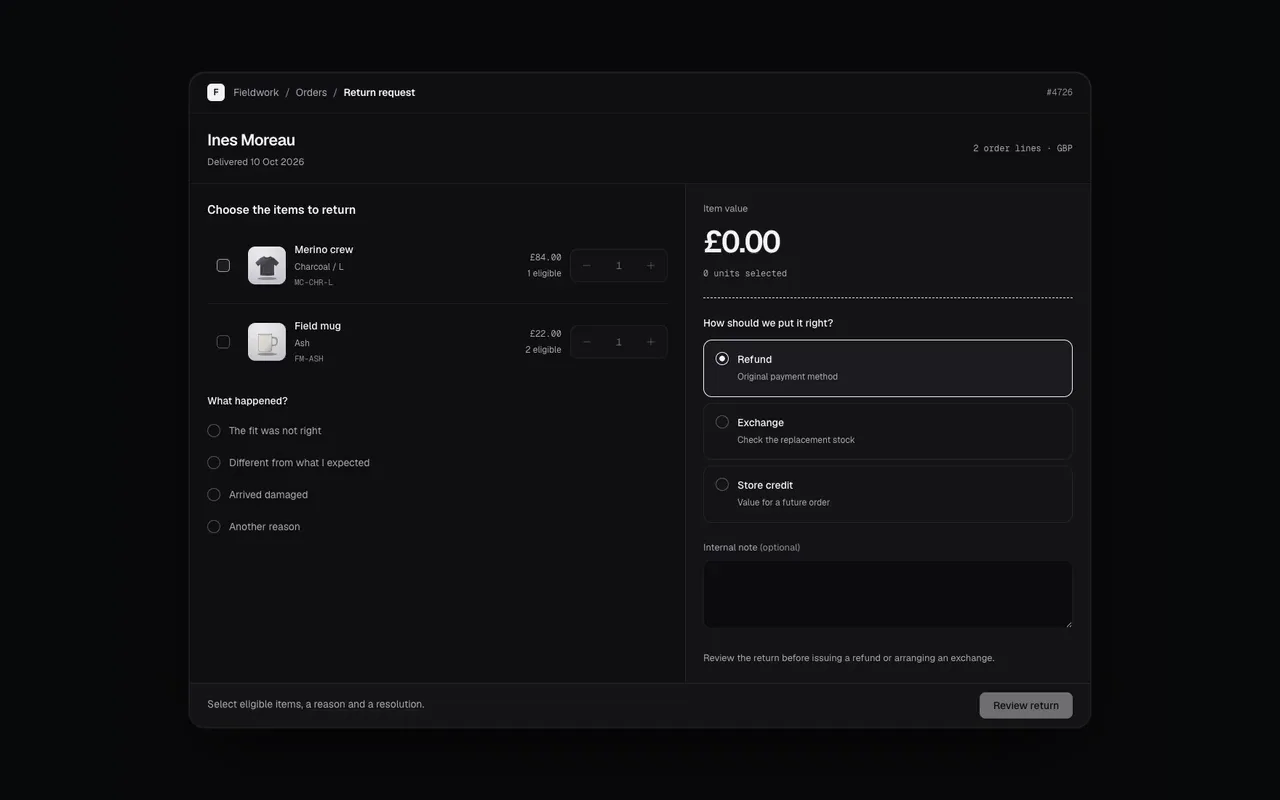
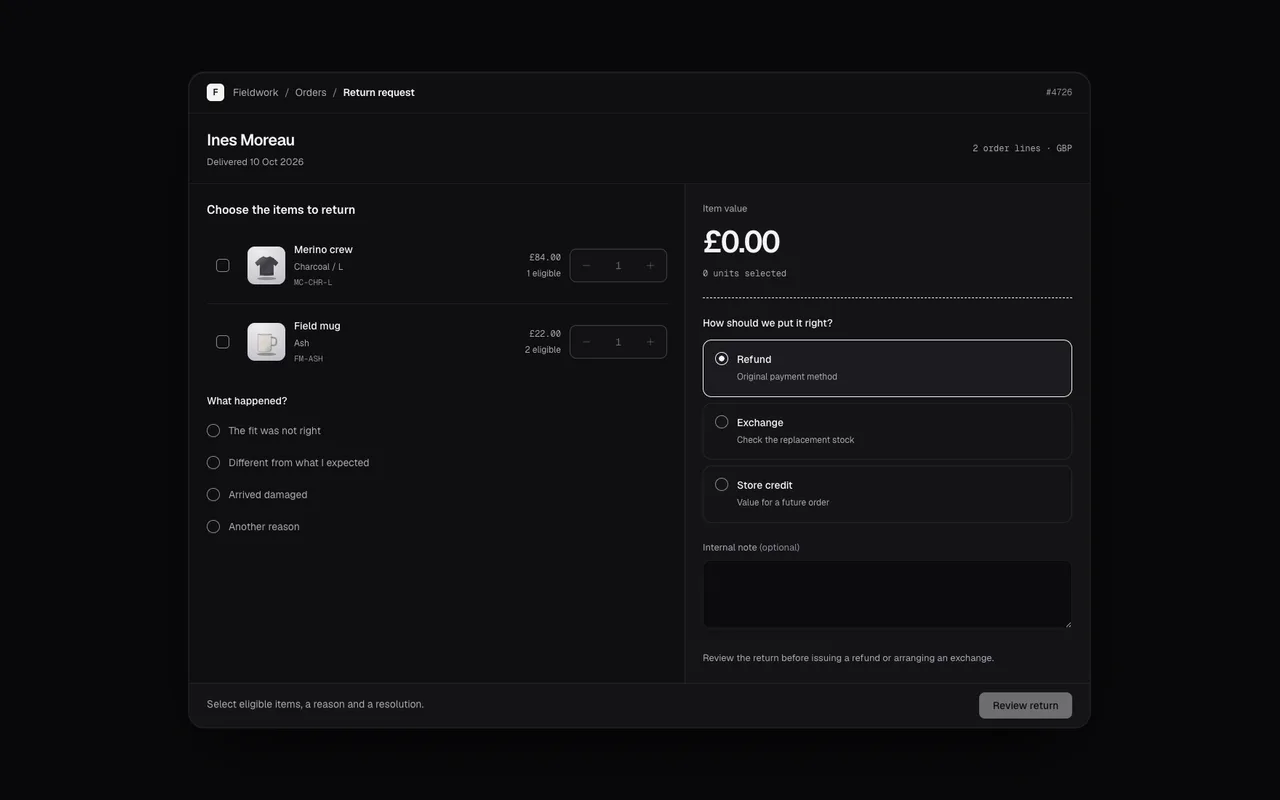
Guard Return Desk choice contrast and refresh its corrected poster

diff --git a/docs/review/STATUS.md b/docs/review/STATUS.md
@@ -189,7 +189,7 @@ Measurements, checkout revisions and package diagnostics are recorded in
 | --- | --- | --- | --- |
 | `commerce-catalog-import` | current | current | Rebuilt CSV/mapping/typed-record workbench; 31-mount source review and Next keyboard/parser/validation/pagination/exact-payload/retry/pending/mutation/revision regression pass. Both-theme accessibility, six widths, entrance/state captures, touch targets, two visible controls, official audit and complete 1,100px replay/poster pass. Native/custom mapping remains an API option; singular count labels are correct. Reviewed 4.2s source/map/review/import film and paired poster are current. Strict registry, TypeScript and all 1,063 unit tests pass. |
 | `commerce-variant-stock` | current | current | Rebuilt product matrix and changed-cell ledger; 29-mount source review, keyboard/exact-snapshot/retry/pending/mutation/revision Next regression, both-theme accessibility, six widths, entrance/state captures, 44px touch targets, three controls, official audit and full 1,100px replay/poster pass. Sticky phone totals keep the last size clickable; footer actions fit their padding and stale alerts retire. Reviewed 3.8s film shows the exact 197-unit saved state and passes every recording guard. Strict registry, TypeScript and all 1,063 unit tests pass. |
-| `commerce-return-desk` | current | current | Rebuilt item ledger and return slip; 25-mount source review plus both-theme normal-motion phase guard, exact-amount/retry/pending/revision/retained-edit Next regression, Commerce Workspace integration, both-theme accessibility, six widths, entrance/state captures, 44px touch targets, two controls, official audit and complete 1,100px demo/poster pass. Strict registry, TypeScript and all 1,063 unit tests pass. Reviewed 6.0s selection/note/review/record film and paired poster are current. Retiring feedback is inert and leaves the accessibility tree immediately. |
+| `commerce-return-desk` | new | current | Rebuilt item ledger and return slip; 25-mount source review plus both-theme normal-motion phase guard, exact-amount/retry/pending/revision/retained-edit Next regression, Commerce Workspace integration, both-theme accessibility, six widths, entrance/state captures, 44px touch targets, two controls, official audit and complete 1,100px demo/poster pass. Strict registry, TypeScript and all 1,063 unit tests pass. Unchecked choice boundaries now pass a painted-colour regression at 5.60:1 dark and 5.28:1 light. Its film refresh is pending; the corrected poster is current. Retiring feedback is inert and leaves the accessibility tree immediately. |
 | `commerce-operations-dashboard` | current | current | Rebuilt revenue/flow/channel dashboard; 24-mount source review, Next exact-total/inspection/history/empty regression, full-month replay, both-theme accessibility, six widths, entrance/state captures, two controls and official audit pass. Measured 1,240px preview and refreshed poster retain the whole ledger; reviewed 3.2s Retail/month film and paired poster are current. |
 | `commerce-fulfilment-desk` | current | current | Rebuilt parcel/route/recovery workflow; 23-mount source review, Next retained-note/retry/pending/revision/empty regression, recorded-request replay, both-theme accessibility, six widths, entrance/state captures, two controls, official audit and measured full-frame poster pass; reviewed 5.7s recovery/note/review/record film and paired poster are current. Retiring feedback is inert and leaves the accessibility tree immediately. |
 | `commerce-purchase-order` | current | current | Rebuilt PO document; 22-mount source review, Next exact-cost/retry/pending/supplier regression, three-line saved-draft replay, both-theme accessibility, six widths, entrance/state captures, three controls, official audit and refreshed poster pass; reviewed 4.1s add/review/save film and paired poster are current. Retiring feedback is inert and leaves the accessibility tree immediately. |

diff --git a/docs/review/HANDOFF_TASKS.md b/docs/review/HANDOFF_TASKS.md
@@ -239,6 +239,8 @@ and how to know it's done. Pick any of them up independently. Background, briefs
 
 - Task 1: Permission Matrix now has a reviewed 3.5s film showing Reviewer approval including its editing prerequisite, the exact two-change ledger and the settled saved-policy receipt. Complete framing matches the paired poster. Maximum source gap is 11ms, changed-source delivery is 15.0ms and moving-frame p95 is 18.1ms, with no stalls and every existing guard intact. 120 listed films remain.
 
+- Accessibility follow-up: Return Desk shares the measured unchecked-choice boundary issue found in Permission Matrix. Its scoped control token now raises the boundary from 2.53:1 to 5.60:1 dark and 5.28:1 light; the preserved old-source contrast check fails and both-theme reruns pass. The existing Next workflow/phase regression, two controls, official audit, complete 1,100px replay/poster, strict registry, TypeScript and all 1,063 unit tests pass. The embedded controls remain canonical. Its film refresh is listed in task 1.
+
 ## Ground rules (read first)
 
 - Two repos. Public: `richawo/Design-components-for-AI-agents` (this one). Pro: `richawo/Design-for-AI`, private, cloned
@@ -256,7 +258,7 @@ and how to know it's done. Pick any of them up independently. Background, briefs
 - Browser checks: `node scripts/check-component.mjs <slug> --base=http://localhost:3100 --no-video --keep-going`
   (screenshots at 1440/768/390 and every control flip; read the screenshots it writes to `test-results/check/<slug>/`).
 
-## 1. Re-record demo videos (120 components)
+## 1. Re-record demo videos (121 components)
 
 Every rebuilt component's poster is current but its catalogue film (`public/previews/<slug>.mp4`) still shows the old
 version. Record them one at a time on an otherwise idle machine; the recorder rejects frame stalls under load.
@@ -275,6 +277,7 @@ slug or per small group). Notes:
 
 Slugs:
 
+`commerce-return-desk`
 `editor-font-pairing`, `editor-keyframe-track`
 `editor-layer-stack`, `editor-spacing-inspector`, `editor-storyboard-strip`, `editor-version-restore`
 `three-exploded-assembly`, `three-material-inspector`, `agents-budget-guard`, `agents-dependency-board`
